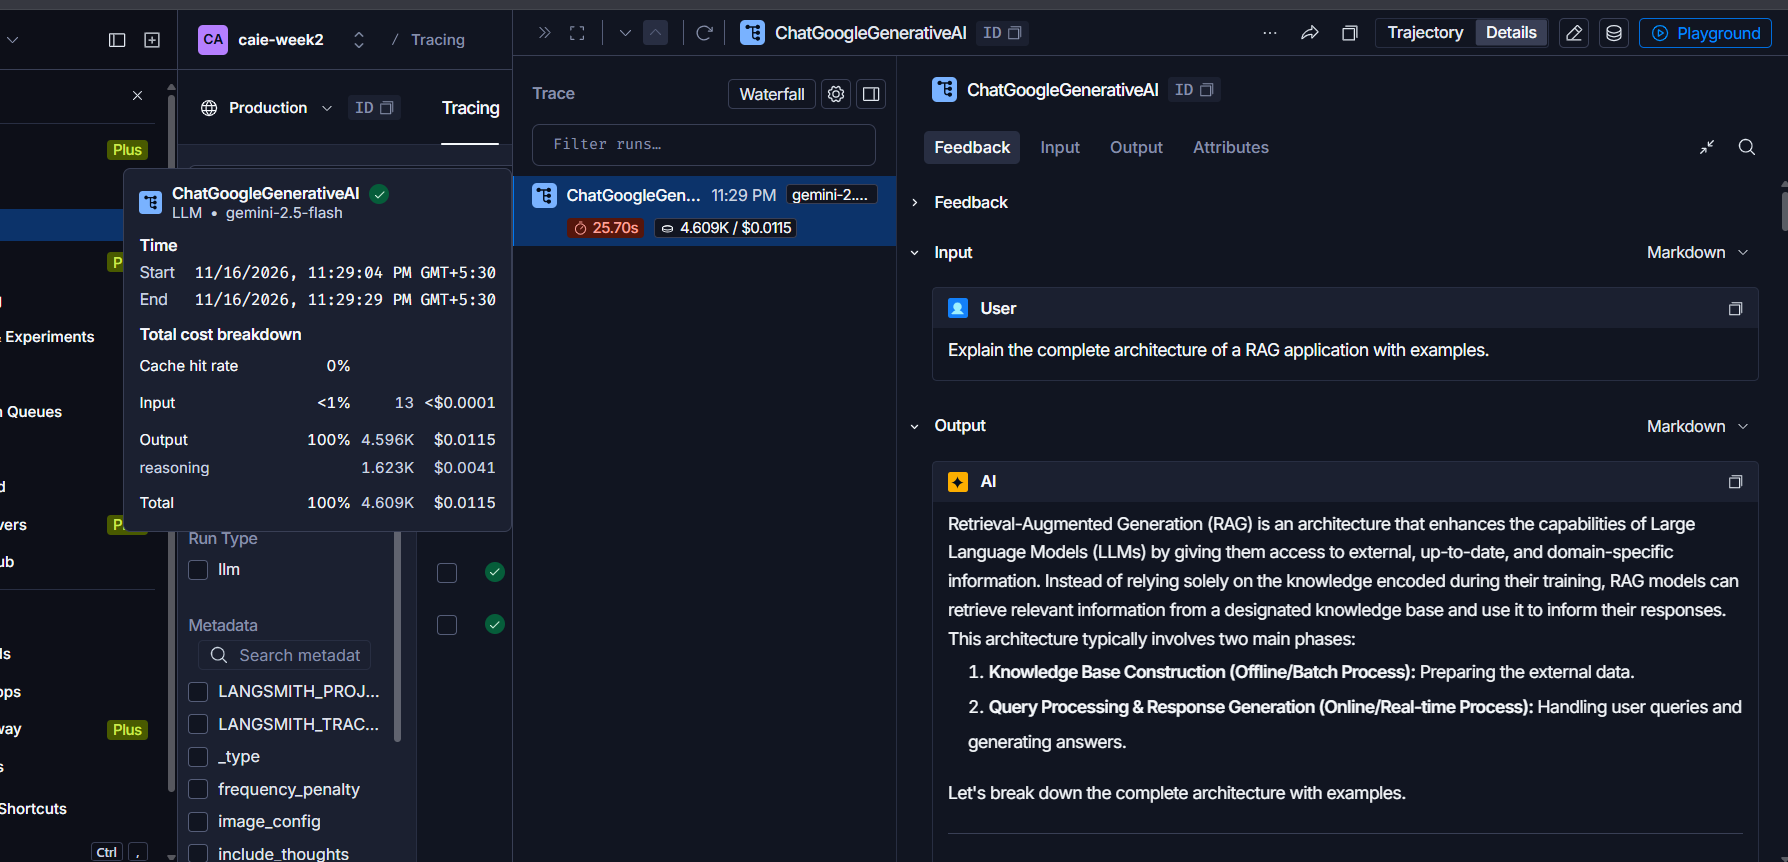
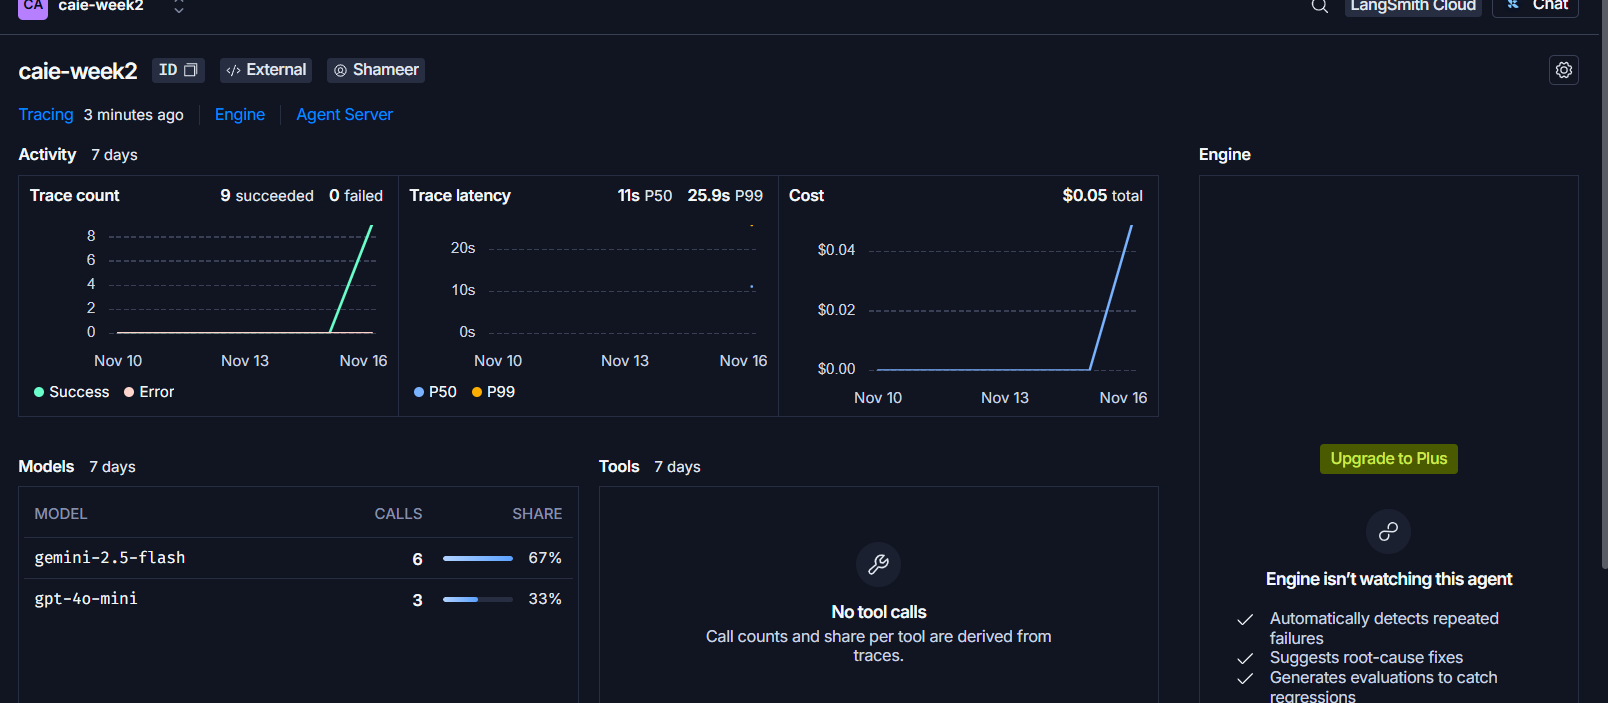
second commit with gpt

diff --git a/traced_app.py b/traced_app.py
@@ -1,29 +1,32 @@
 
-from dotenv import load_dotenv
-from langchain_google_genai import ChatGoogleGenerativeAI
 import os
+from dotenv import load_dotenv
+from langchain_openai import ChatOpenAI
 
 # Load environment variables
 load_dotenv()
 
-# Check LangSmith tracing configuration
+# Verify LangSmith configuration
 print("Tracing:", os.getenv("LANGSMITH_TRACING"))
 print("Project:", os.getenv("LANGSMITH_PROJECT"))
 
-# Initialize Gemini
-llm = ChatGoogleGenerativeAI(
-    model="gemini-2.5-flash",
+# Initialize OpenAI model
+llm = ChatOpenAI(
+    model="gpt-4o-mini",
     temperature=0.7,
-    google_api_key=os.getenv("GOOGLE_API_KEY")
+    api_key=os.getenv("OPENAI_API_KEY")
 )
 
+# Three different prompts
 prompts = [
     "What is artificial intelligence? Explain briefly.",
     "Explain how RAG works in LangChain.",
     "Explain the complete architecture of a RAG application with examples."
 ]
 
+# Execute prompts
 for i, prompt in enumerate(prompts, start=1):
     print(f"\n--- Run {i} ---")
     response = llm.invoke(prompt)
+    print("Prompt:", prompt)
     print("Answer:", response.content)
